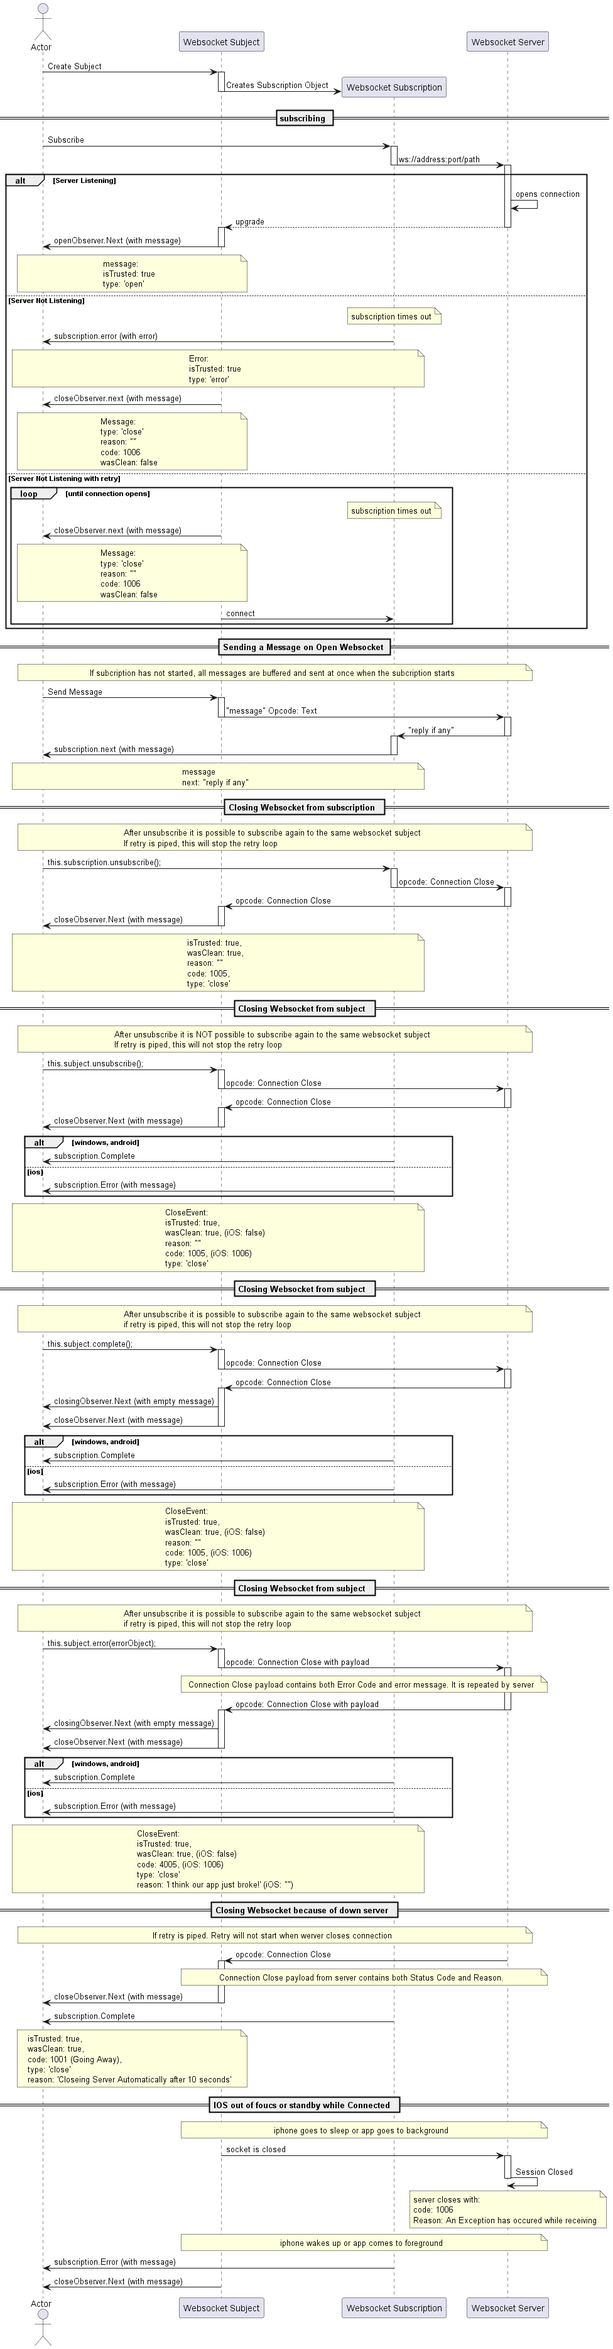
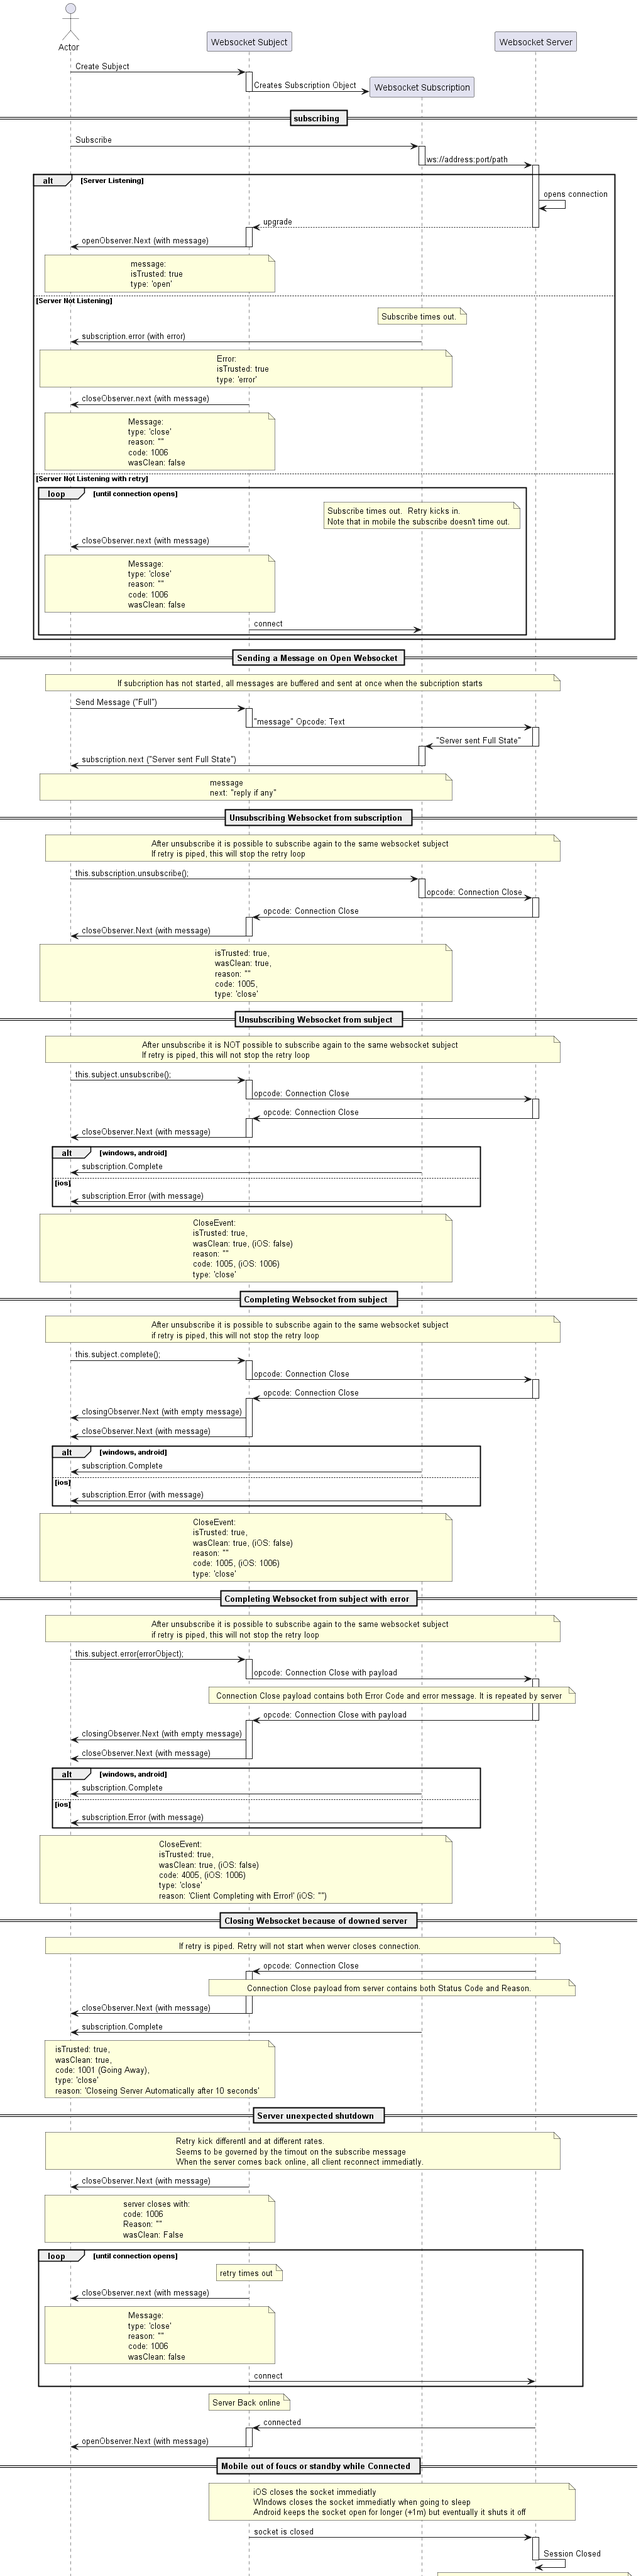
Keep connection alive pattern

diff --git a/src/app/app.component.ts b/src/app/app.component.ts
@@ -15,14 +15,26 @@ export class AppComponent {
   subject: WebSocketSubject<any> = <WebSocketSubject<any>>{};
   subscription: Subscription = <Subscription>{};
   public log: string = "";
+  private currentPath: string = "";
 
   public createWebeSocketSubject(path: string) {
+    this.log = this.log + `\nConnecting to WebSocket with Path: ${path}\n`;
+    if (this.currentPath !== path && this.currentPath !== "") {
+      this.log = this.log + `Subscription to ${this.currentPath} open. Unsubscribing first.\n`
+      this.subscription.unsubscribe();
+    }
+    this.currentPath = path;
     this.log = this.log + `Creating websocket subject with path: ${path}\n`;
     this.subject = webSocket<any>({
       // url: 'ws://localhost:58000/' + path,
       url: 'ws://192.168.0.135:58000/' + path,
       openObserver: {
-        next: (e:Event) => this.log = this.log + `[openObserver] Next. Type: ${e.type}. Target: ${e.target}.\n`,
+        next: (e:Event) => {
+           this.log = this.log + `[openObserver] Next. Type: ${e.type}. Target: ${e.target}.\n`;
+           this.log = this.log + `[openObserver] Requesting Full State from Server.\n`;
+           this.sendMessage('Full');
+           return;
+        },
         error: (e: Event) => this.log = this.log + `[openObserver] Error. ${JSON.stringify(e)}\n`,
         complete: () => this.log = this.log + `[openObserver] Complete\n`,
       },
@@ -37,6 +49,7 @@ export class AppComponent {
         complete: () => this.log = this.log + `[closingObserver] Complete\n`,
       },
     });
+    this.subscribeWebSocketSubject();
   }
 
   public subscribeWebSocketSubject() {
@@ -48,10 +61,19 @@ export class AppComponent {
       }, resetOnSuccess: true })
     ).subscribe({
       next: msg => this.log = this.log + `[subcription] Next: [${msg}]\n`, // Called whenever there is a message from the server.
-      error: err => this.log = this.log + `[subcription] Error ${JSON.stringify(err)}\n`, // Called if at any point WebSocket API signals some kind of error.
-      complete: () => this.log = this.log + '[subcription] complete\n' // Called when connection is closed (for whatever reason).
+      error: err => {
+         this.log = this.log + `[subcription] Error ${JSON.stringify(err)}\n`;
+         this.log = this.log + `[subcription] Resubscribing to ${this.currentPath}\n`; // Called when connection is closed (for whatever reason).
+         this.createWebeSocketSubject(this.currentPath);
+         return;
+      }, // Called if at any point WebSocket API signals some kind of error.
+      complete: () => {
+        this.log = this.log + '[subcription] complete\n'; // Called when connection is closed (for whatever reason).
+        this.log = this.log + `[subcription] Resubscribing to ${this.currentPath}\n`; // Called when connection is closed (for whatever reason).
+        this.createWebeSocketSubject(this.currentPath);
+        return;
+      } // Called when connection is closed (for whatever reason).
     });
-    timer
   }
 
   public sendMessage(message: string) {
@@ -63,22 +85,9 @@ export class AppComponent {
   public unsubcribeSocketSubscription() {
     this.log = this.log + `[this.subscription.unsubscribe()] Unsubscribing from socket subscription\n`
     this.subscription.unsubscribe();
+    this.currentPath = "";
   }
 
-  public unsubcribeSocketSubject() {
-    this.log = this.log + `[this.subject.unsubscribe()] Unsubscribing from socket subject\n`
-    this.subject.unsubscribe();
-  }
-
-  public completeConnection() {
-    this.log = this.log + `[this.subject.complete()] Completing Connection\n`
-    this.subject.complete(); // Closes the connection.
-  }
-
-  public completeWithError() {
-    this.log = this.log + `[this.subject.error(...)] Completing Connection with Error\n`
-    this.subject.error({ code: 4500, reason: 'Client Completing With Error!' }); // Informs the server that this client is disconnecting.
-  }
 
   public clearLog(){
     this.log = "";

diff --git a/src/app/app.component.html b/src/app/app.component.html
@@ -52,22 +52,18 @@
 
   <div class="card-container">
     <a class="card" target="_blank" (click)="createWebeSocketSubject('home')">
-      <span>Create Websocket Subject for Home</span>
+      <span>Start Websocket Subject for Home</span>
     </a>
 
     <a class="card" target="_blank" (click)="createWebeSocketSubject('office')">
-      <span>Create Websocket Subject for Office</span>
+      <span>Start Websocket Subject for Office</span>
     </a>
 
     <a class="card" target="_blank" (click)="createWebeSocketSubject('kitchen')">
-      <span>Create Websocket Subject for Kitchen</span>
+      <span>Start Websocket Subject for Kitchen</span>
     </a>
 
-    <a class="card" target="_blank" (click)="subscribeWebSocketSubject()">
-      <span>Subscribe to Websocket</span>
-    </a>
-
-    <a class="card" target="_blank" (click)="sendMessage('Full')">
+     <a class="card" target="_blank" (click)="sendMessage('Full')">
       <span>Send get Full State Message</span>
     </a>
 
@@ -80,19 +76,7 @@
     </a>
 
     <a class="card" target="_blank" (click)="unsubcribeSocketSubscription()">
-      <span>Unsubscibe Subscription</span>
-    </a>
-
-    <a class="card" target="_blank" (click)="unsubcribeSocketSubject()">
-      <span>Unsubscibe Subject</span>
-    </a>
-
-    <a class="card" target="_blank" (click)="completeConnection()">
-      <span>Complete Subject</span>
-    </a>
-
-    <a class="card" target="_blank" (click)="completeWithError()">
-      <span>Complete Subject with error</span>
+      <span>Terminate Current Subscription</span>
     </a>
 
     <a class="card" target="_blank" (click)="clearLog()">
